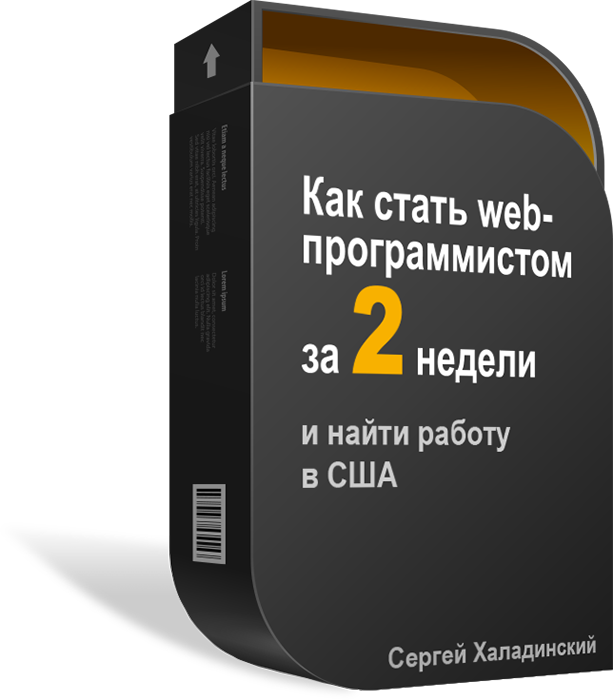
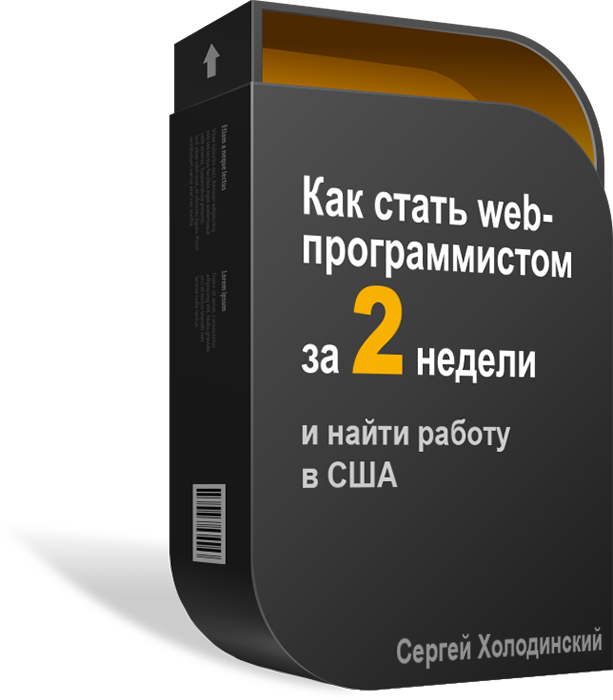
Updates

Changed region(s): [[0.6199, 0.9, 0.9918, 0.96]]

diff --git a/components/com_room/views/payment/view.raw.php b/components/com_room/views/payment/view.raw.php
@@ -90,12 +90,12 @@
 						if($user->funnel_step > 0) {
 							$body = '<p>Доступ к видео курсу "Как стать web-программистом за 2 недели и найти работу в США" открыт:'.
 									'<p><a href="http://webcodingbasics.com/course/lesson1/part1">http://webcodingbasics.com/course/lesson1/part1</a></p>'.
-									'<p>Сергей Халадинский<br />'.
+									'<p>Сергей Холодинский<br />'.
 									'<a href="http://webcodingbasics.com">www.webcodingbasics.com</p>';								
 						}else {
 							$body = '<p>Доступ к видео курсу "Как стать web-программистом за 2 недели и найти работу в США":'.
 									'<p><a href="http://webcodingbasics.com/course-start?code='.$user->code.'">http://webcodingbasics.com/course/lesson1/part1</a></p>'.
-									'<p>Сергей Халадинский<br />'.
+									'<p>Сергей Холодинский<br />'.
 									'<a href="http://webcodingbasics.com">www.webcodingbasics.com</p>';
 						}
 						$mailer->setBody($body);				

diff --git a/components/com_survey/controllers/stepone.php b/components/com_survey/controllers/stepone.php
@@ -57,7 +57,7 @@
 						'<p>Как и обещал высылаю тебе ссылку на первый видеоурок:'.
 						'<p><a href="http://webcodingbasics.com/course-start?code='.$user->code.'">http://webcodingbasics.com/course/lesson10</a></p>'.
 						'<p><strong>Не теряй время и переходи к изучению прямо сейчас!</strong></p>'.
-						'<p>Сергей Халадинский<br />'.
+						'<p>Сергей Холодинский<br />'.
 						'<a href="http://webcodingbasics.com">www.webcodingbasics.com</p>';
 				$mailer->isHTML(true);
 				$mailer->Encoding = 'base64';

diff --git a/templates/custom/index.php b/templates/custom/index.php
@@ -374,7 +374,7 @@ else
 		
 		<footer>
 			<div class="container">				
-				<p>&copy; <?php echo date('Y')?> Сергей Халадинский. Все права защищены.</p>
+				<p>&copy; <?php echo date('Y')?> Сергей Холодинский. Все права защищены.</p>
 			</div>
 		</footer>
 
